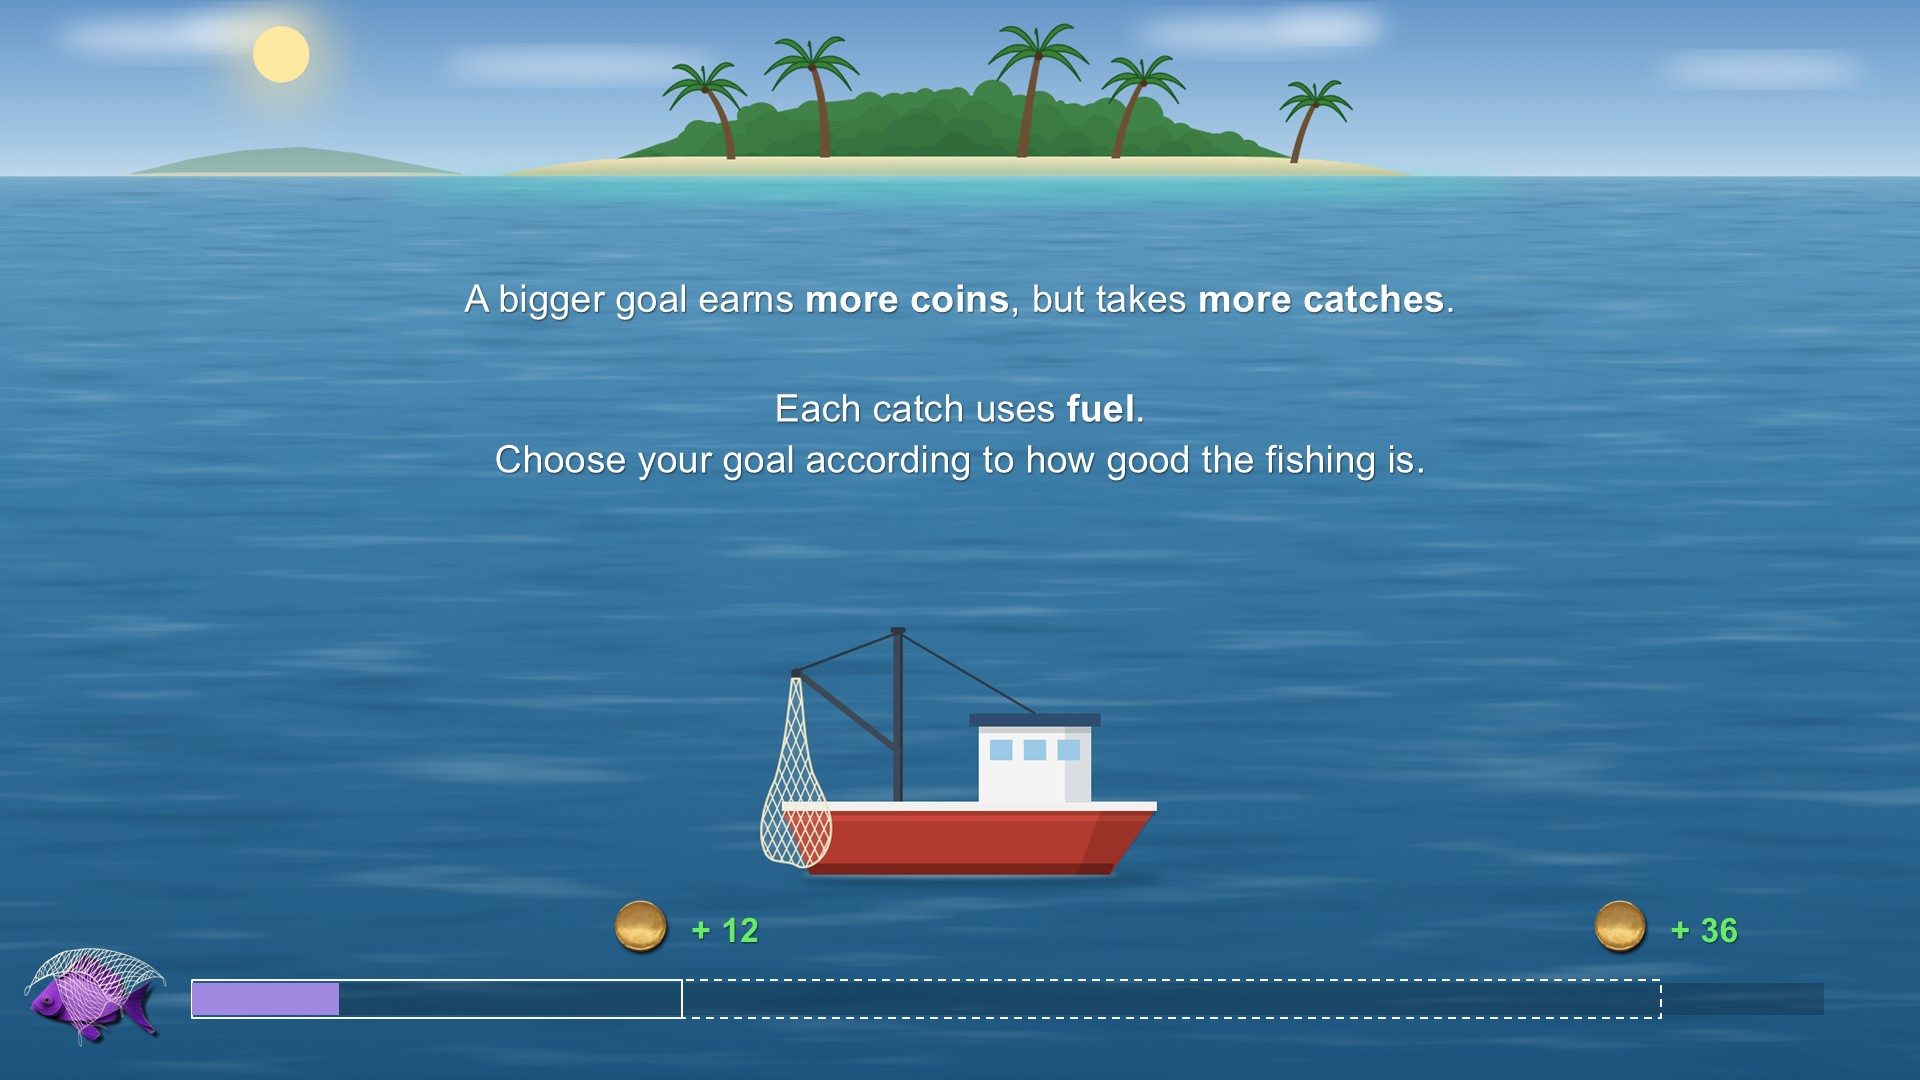
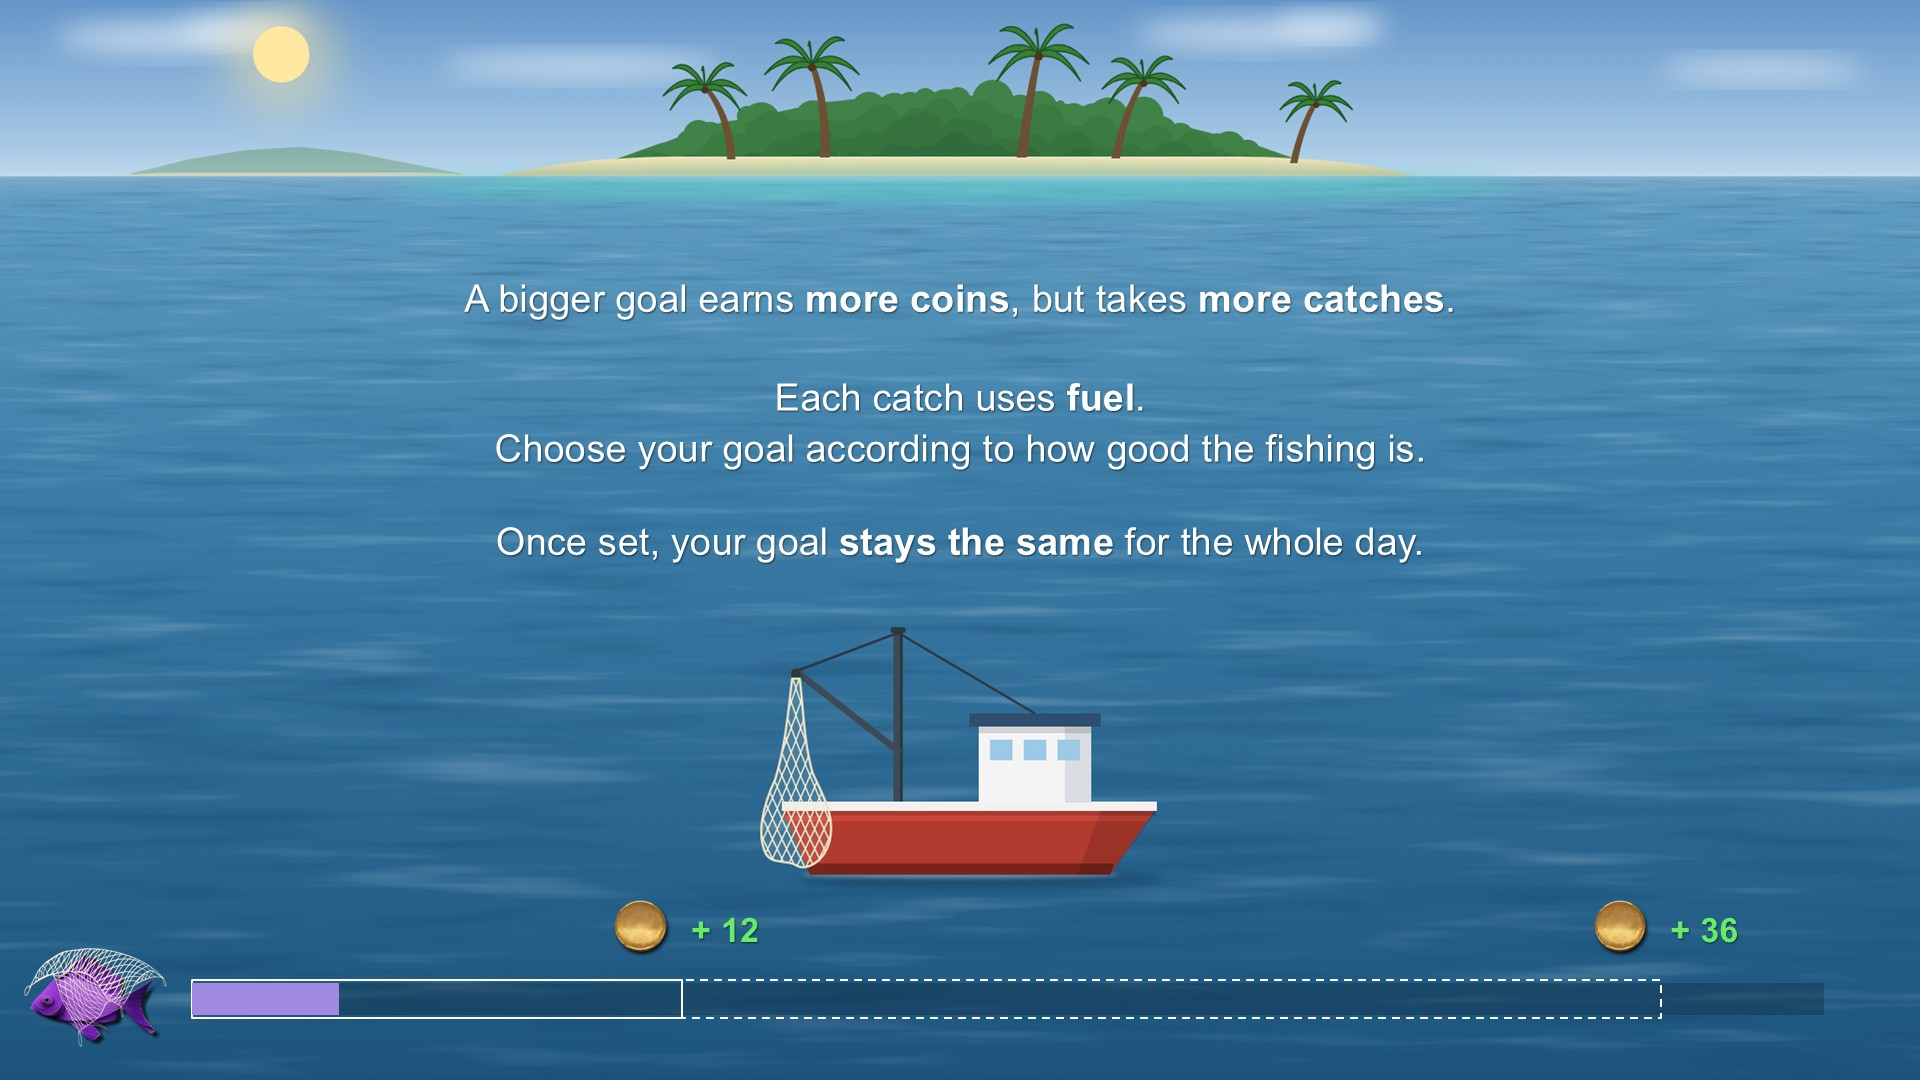
Update task: comprehension quiz, slide changes

Changed region(s): [[0.25, 0.3361, 0.75, 0.4583], [0.25, 0.4889, 0.75, 0.5194]]

diff --git a/goal_task.js b/goal_task.js
@@ -1,7 +1,8 @@
 /*
  * Goal-setting fishing task (PsychoJS). Parameters: goal_task_config.js. Schedule: schedules_fmri/ (Simulation/schedule.py).
  *
- *   Session  : welcome -> instruction slides -> practice (3 days) -> "Your fishing trip begins!" -> main task -> end
+ *   Session  : welcome -> instruction slides -> practice (3 days) -> comprehension quiz -> "Your fishing trip begins!"
+ *              -> main task -> end
  *   Main task: 9 fishing spots (megablocks, one background each); a spot ends after the day during which the session
  *              reaches its `ends_at_trial` (megablocks.csv). When the fuel (session trials) runs out, the game stops
  *              and the net is lost.
@@ -10,8 +11,9 @@
  *   Trial    : choice screen -> catch (the net grows; it is emptied first if the creature changed) -> "Fish again!".
  *
  * URL options (testing):  ?participant=XYZ  skips the participant dialog;  ?auto=1  plays automatically;
- *   ?fast=1  shortens all durations;  ?speed=2  twice as fast;  ?megablock=N  skips the instructions and the practice
- *   and starts at spot N;  ?envorder=3,1,2,...  imposes the order of the backgrounds.
+ *   ?fast=1  shortens all durations;  ?speed=2  twice as fast;  ?megablock=N  skips the instructions, the practice
+ *   and the quiz and starts at spot N;  ?quiz=1  skips the instructions and the practice (starts at the quiz);
+ *   ?envorder=3,1,2,...  imposes the order of the backgrounds.
  *
  * Each screen is an async function that the session `await`s, so the order of the functions is the order of the task.
  */
@@ -95,7 +97,7 @@ const backgroundFile = (environment) => `${CONFIG.environmentFolder}/${environme
 const slidePath = (k) => `images/instructions/instructions_${String(k).padStart(2, '0')}.jpg`;
 const INSTRUCTION_SLIDES = Array.from({ length: CONFIG.instructionSlides - 1 }, (_, k) => slidePath(k));
 const START_SLIDE = slidePath(CONFIG.instructionSlides - 1);   // "Your fishing trip begins!"
-const IMAGE_FILES = [...new Set([...INSTRUCTION_SLIDES, START_SLIDE, ...Object.values(IMAGES),
+const IMAGE_FILES = [...new Set([...INSTRUCTION_SLIDES, START_SLIDE, ...Object.values(IMAGES), ...CONFIG.quiz.map((q) => q.image),
   ...[...CONFIG.environments, CONFIG.practiceEnvironment].map(backgroundFile)])];
 psychoJS.start({ expName, expInfo, resources: IMAGE_FILES.map((path) => ({ name: path, path })) });
 
@@ -384,10 +386,12 @@ async function runSession() {
   clearScreen();
 
   await welcomeScreen();
-  if (!URL_PARAMS.has('megablock')) {   // testing: ?megablock=N skips the instructions and the practice
-    for (const slide of INSTRUCTION_SLIDES) await slideScreen(slide);
-    await runPractice(practiceDays);
-    // (later) comprehension quiz
+  if (!URL_PARAMS.has('megablock')) {   // testing: ?megablock=N skips the instructions, the practice and the quiz
+    if (!URL_PARAMS.has('quiz')) {      // testing: ?quiz=1 starts at the quiz
+      for (const slide of INSTRUCTION_SLIDES) await slideScreen(slide);
+      await runPractice(practiceDays);
+    }
+    await runQuiz();
     await slideScreen(START_SLIDE);
   }
 
@@ -433,6 +437,69 @@ async function runPractice(days) {
   Object.assign(state, saved);
   logEvent('practice_end', {});
   await messageScreen('End of the practice.\n\nThe coins of the practice do not count:\nyour trip starts with 0 coins and a full tank.');
+}
+
+// ======================================================================================
+// COMPREHENSION QUIZ (after the practice), built like the quiz of the previous task: each question shows an
+// illustration (top right), the question (left) and three answers (A, B, C); a Next button appears once an answer is
+// chosen. If any answer is wrong, the quiz starts again (at most CONFIG.quizMaxAttempts attempts).
+// ======================================================================================
+
+async function runQuiz() {
+  await messageScreen('Before starting your fishing trip,\nplease answer a few questions about the game.', 'Start');
+  for (let attempt = 1; attempt <= CONFIG.quizMaxAttempts; attempt++) {
+    let allCorrect = true;
+    for (const question of CONFIG.quiz) allCorrect = (await quizQuestion(question, attempt)) && allCorrect;
+    logEvent('quiz_result', { attempt, passed: allCorrect });
+    if (allCorrect) {
+      await messageScreen('Well done, all your answers are correct!');
+      return;
+    }
+    if (attempt < CONFIG.quizMaxAttempts) {
+      await messageScreen('Sorry, you did not answer all the questions correctly.\nPlease read them carefully and try again.');
+    }
+  }
+}
+
+/** One quiz question; returns true if the answer is correct. */
+async function quizQuestion(question, attempt) {
+  clearScreen();
+  drawBackgroundImage(IMAGES.plainSea);
+  show(new visual.Rect({   // white frame around the illustration
+    win: psychoJS.window, units: 'norm', pos: [0.45, 0.45], width: 1.02, height: 1.02,
+    fillColor: WHITE, lineColor: WHITE, lineWidth: 0,
+  }), makeImage(question.image, [0.45, 0.45], [1, 1]),
+  makeText(question.question, [-0.56, 0.45], 0.065, 0.8));
+  const boxes = question.answers.map((answer, k) => {
+    const pos = [0, -0.27 - 0.22 * k];
+    const box = new visual.Rect({
+      win: psychoJS.window, units: 'norm', pos, width: 1.8, height: 0.18,
+      fillColor: new util.Color('black'), lineColor: WHITE, lineWidth: 2, opacity: 0.4,
+    });
+    show(box, makeText(`${'ABC'[k]}. ${answer}`, pos, 0.055, 1.7));
+    return box;
+  });
+  const start = now();
+  let chosen = null;
+  let next = null;
+  while (true) {
+    const targets = next ? [...boxes, next.rect] : boxes;
+    const { index } = await waitForClick(targets, () => (chosen === null ? question.correct : boxes.length));
+    if (index === boxes.length) break;   // Next
+    chosen = index;
+    boxes.forEach((box, k) => {          // the chosen answer is outlined in green
+      box.lineColor = k === chosen ? GAIN_COLOUR : WHITE;
+      box.lineWidth = k === chosen ? 5 : 2;
+    });
+    if (!next) {
+      next = makeWhiteButton('Next', [0.82, -0.94], 0.22, 0.08);
+      showButton(next);
+    }
+  }
+  const correct = chosen === question.correct;
+  logEvent('quiz', { attempt, question: question.id, answer: 'ABC'[chosen], correct, rt: Number((now() - start).toFixed(3)) });
+  clearScreen();
+  return correct;
 }
 
 async function runMainTask(schedule) {
@@ -796,7 +863,7 @@ const MERCHANT = { size: [650 / 1024, 325 / 576], y: -0.6 + (262.5 - 162.5) / 57
 /**
  * End of the day: same scene as during the fishing (background, net gauge with the goal) and, in the middle, a panel:
  * outcome, what was sold (money bag + coins gained), total. When the goal is reached, a merchant boat comes to buy
- * the catch (the net empties) and sails away while the outcome is shown.
+ * the catch (the net empties), stays a moment and sails away.
  */
 async function endOfBlockScreen(zone, outcome) {
   const sold = outcome === 'goal_reached';
@@ -818,28 +885,28 @@ async function endOfBlockScreen(zone, outcome) {
   clearScreen();
   drawBackground(false);
   const gauge = drawNetGauge(zone);
-  let ship = null;
+  show(makePanel([0, 0.15], 0.8, 0.85, 0.35), makeText(title, [0, 0.45], 0.1, 1.6, new util.Color(colour)));
+  const bag = makeImage(IMAGES.bag, [-0.09, 0.1], [0.1, 0.18]);
+  const result = [makeText(sold ? 'Catch sold' : 'Nothing to sell', [0, 0.28], 0.065), bag,
+    makeText(`+ ${coins}`, [0.06, 0.1], 0.1, 1.6, sold ? GAIN_COLOUR : new util.Color([0.4, 0.4, 0.4])),
+    makeText(`Total: ${state.coins} coins`, [0, -0.1], 0.065)];
   if (sold) {
-    // the merchant boat comes alongside the fishing boat and takes the catch (the net empties)
-    ship = makeImage(IMAGES.merchant, [MERCHANT.offScreenX, MERCHANT.y], MERCHANT.size);
+    // "Goal reached!" from the start; the merchant boat comes alongside the fishing boat, stays while the catch is
+    // sold (the net empties, the coins are shown), then turns around and sails away; the button appears after it
+    const ship = makeImage(IMAGES.merchant, [MERCHANT.offScreenX, MERCHANT.y], MERCHANT.size);
     show(ship);
     await glide(ship, [MERCHANT.offScreenX, MERCHANT.y], [MERCHANT.x, MERCHANT.y], CONFIG.merchantDuration);
     hide(gauge);
     drawNetGauge({ ...zone, option: null }, { net: 0 });
+    show(...result);
+    await wait(CONFIG.merchantStay);
+    ship.flipHoriz = true;
+    await glide(ship, [MERCHANT.x, MERCHANT.y], [MERCHANT.offScreenX, MERCHANT.y], CONFIG.merchantDuration);
+  } else {
+    bag.opacity = 0.4;
+    show(...result);
+    await wait(CONFIG.outcomeMinDuration);
   }
-  const bag = makeImage(IMAGES.bag, [-0.09, 0.1], [0.1, 0.18]);
-  bag.opacity = sold ? 1 : 0.4;
-  show(makePanel([0, 0.15], 0.8, 0.85, 0.35),
-    makeText(title, [0, 0.45], 0.1, 1.6, new util.Color(colour)),
-    makeText(sold ? 'Catch sold' : 'Nothing to sell', [0, 0.28], 0.065),
-    bag,
-    makeText(`+ ${coins}`, [0.06, 0.1], 0.1, 1.6, sold ? GAIN_COLOUR : new util.Color([0.4, 0.4, 0.4])),
-    makeText(`Total: ${state.coins} coins`, [0, -0.1], 0.065));
-
-  // the merchant boat turns around and sails away while the outcome is shown; the button appears when both are over
-  if (ship) ship.flipHoriz = true;
-  await Promise.all([wait(CONFIG.outcomeMinDuration),
-    ship && glide(ship, [MERCHANT.x, MERCHANT.y], [MERCHANT.offScreenX, MERCHANT.y], CONFIG.merchantDuration)]);
   const button = makeWhiteButton('Continue', [0, -0.5], 0.35);
   showButton(button);
   await waitForClick([button.rect]);

diff --git a/goal_task_config.js b/goal_task_config.js
@@ -21,6 +21,37 @@ export const CONFIG = {
   practiceDays: ['practice/practice_day1.csv', 'practice/practice_day2.csv', 'practice/practice_day3.csv'],
   practiceEnvironment: { name: 'Practice spot', background: 'open_sea.png' },
 
+  // Comprehension quiz after the practice: all answers must be correct, otherwise the quiz starts again (at most
+  // quizMaxAttempts attempts; then the task goes on, and the data show it). Illustrations: images/quiz/quiz_<n>.jpg
+  // (tools/slides/make_instruction_pptx.py --quiz). correct: index of the right answer (0 = A).
+  quizMaxAttempts: 3,
+  quiz: [
+    {
+      id: 'switch', image: 'images/quiz/quiz_1.jpg',
+      question: 'Your net contains octopus.\nWhat happens if you now catch a fish?',
+      answers: ['The fish is added to the octopus already in my net.',
+        'My net is emptied first: then only the fish is in my net.',
+        'Nothing happens: I cannot catch a fish on this day.'],
+      correct: 1,
+    },
+    {
+      id: 'leave', image: 'images/quiz/quiz_2.jpg',
+      question: 'What happens if you click "Leave"?',
+      answers: ['I sell what is in my net, even if my goal is not reached.',
+        'I keep my net and I can set a new goal.',
+        'My net is lost, I give up my goal, and a new day begins.'],
+      correct: 2,
+    },
+    {
+      id: 'spots', image: 'images/quiz/quiz_3.jpg',
+      question: 'You will fish at several fishing spots.\nWhich statement is true?',
+      answers: ['Each spot has its own conditions: during the day, the amounts of creatures can change differently from one spot to another.',
+        'All spots are the same: the amounts of creatures change in the same way everywhere.',
+        'The amounts of creatures never change during a day.'],
+      correct: 0,
+    },
+  ],
+
   // Goal (in net points; the gauge spans goalMin..goalMax, same scale in every block)
   goalMin: 500,
   goalMax: 2000,
@@ -38,8 +69,11 @@ export const CONFIG = {
   newEnvironmentDuration: 3,
   catchDuration: 2,
   fishAgainDelay: 0.5,       // the "Fish again!" button appears after this delay
-  outcomeMinDuration: 1.5,   // end-of-day screen: the button appears after this delay
-  merchantDuration: 1.5,     // goal reached: the merchant boat arrives in this time, and leaves in this time (while the outcome is shown)
+  outcomeMinDuration: 1.5,   // end-of-day screen without a sale: the button appears after this delay
+  // goal reached: the merchant boat arrives in merchantDuration, stays merchantStay (sale shown), leaves in
+  // merchantDuration; the button appears after it (3 s in all)
+  merchantDuration: 1,
+  merchantStay: 1,
 
   // Option names as in the schedule files (columns <name>_val, <name>_choice_width, <name>_choice_height)
   options: ['octopus', 'fish', 'stingray'],
